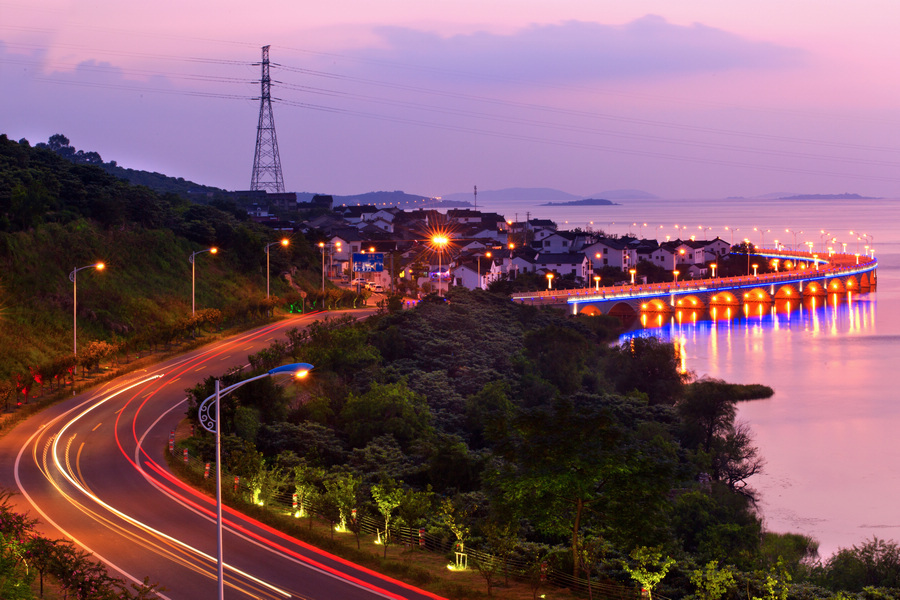
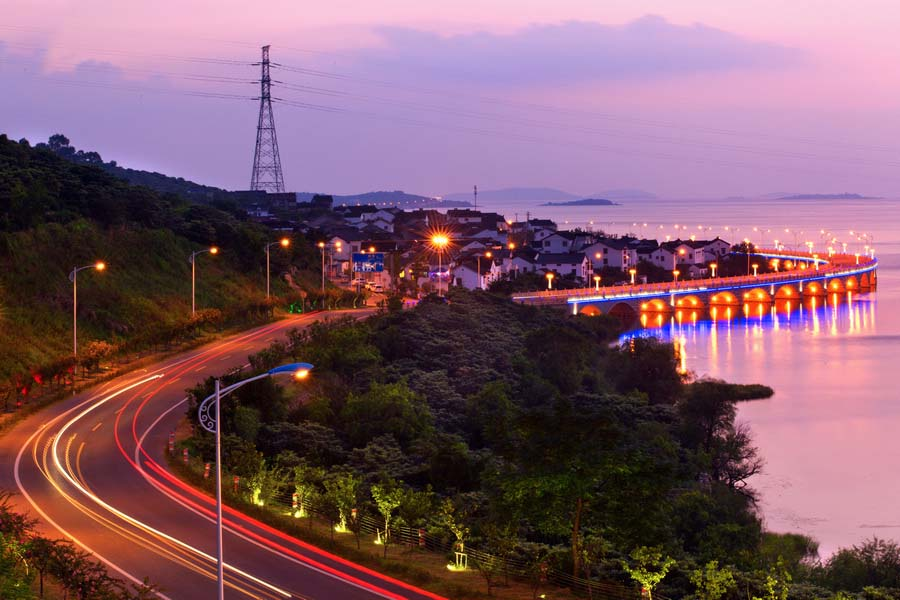
代码调整，图片缩小

diff --git a/src/main/resources/templates/riding/taihu.html b/src/main/resources/templates/riding/taihu.html
@@ -4,7 +4,21 @@
     <title>环太湖骑行</title>
     <meta name="keywords" content="太湖,骑行,环太湖骑行">
     <meta name="description" content="李建兵2020年国庆环太湖骑行计划和记录">
-    <meta th:include="top :: top"/>
+    <meta charset="utf-8">
+    <meta name="viewport" content="width=device-width, initial-scale=1, maximum-scale=1">
+    <meta name="renderer" content="webkit">
+    <meta http-equiv="X-UA-Compatible" content="IE=edge,chrome=1">
+    <meta name="viewport" content="width=device-width, initial-scale=1, maximum-scale=1">
+    <meta name="apple-mobile-web-app-status-bar-style" content="black">
+    <meta name="apple-mobile-web-app-capable" content="yes">
+    <meta name="format-detection" content="telephone=no">
+    <meta name="author" content="787331940@qq.com(李建兵)">
+    <script src="http://libs.baidu.com/jquery/2.1.4/jquery.min.js"></script>
+    <link rel="stylesheet" type="text/css" href="https://www.layuicdn.com/layui/css/layui.css" />
+    <link rel="shortcut icon" th:href="@{../static/image/favicon.ico}"/>
+    <link rel="stylesheet" type="text/css" th:href="@{../static/css/me/common.css}" />
+    <script src="https://www.layuicdn.com/layui/layui.js"></script>
+    <script th:src="@{../static/js/me/common.js}"></script>
     <link href="https://cdn.bootcdn.net/ajax/libs/photoswipe/4.1.3/photoswipe.min.css" rel="stylesheet">
     <script src="https://cdn.bootcdn.net/ajax/libs/photoswipe/4.1.3/photoswipe.min.js"></script>
     <link href="https://cdn.bootcdn.net/ajax/libs/photoswipe/4.1.3/default-skin/default-skin.min.css" rel="stylesheet">
